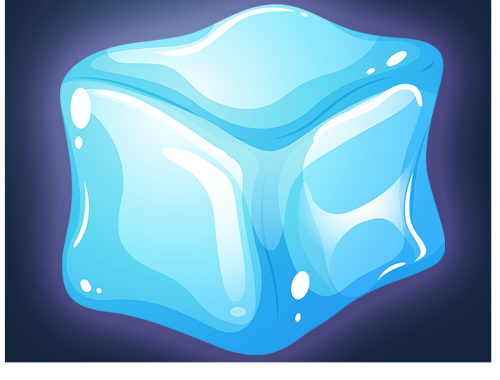
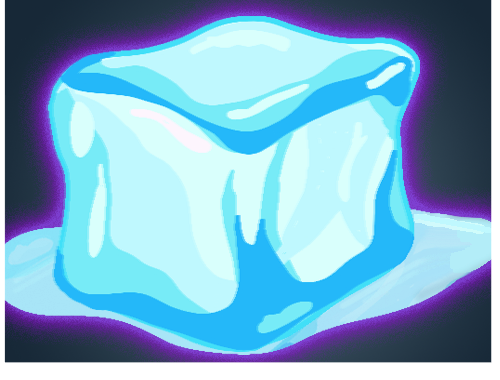
Ice Cube: tweak stats and artwork, remove canUse() method override

diff --git a/src/main/java/thesimpleton/cards/status/IceCube.java b/src/main/java/thesimpleton/cards/status/IceCube.java
@@ -8,6 +8,7 @@ import com.megacrit.cardcrawl.core.CardCrawlGame;
 import com.megacrit.cardcrawl.localization.CardStrings;
 import com.megacrit.cardcrawl.monsters.AbstractMonster;
 import thesimpleton.TheSimpletonMod;
+
 public class IceCube extends CustomCard {
     public static final String ID = "TheSimpletonMod:IceCube";
     private static final CardStrings cardStrings;
@@ -21,7 +22,7 @@ public class IceCube extends CustomCard {
     private static final CardTarget TARGET = CardTarget.NONE;
     private static final int COST = -2;
 
-    private static int NUM_TURNS_TO_ETHEREAL = 2;
+    private static int NUM_TURNS_TO_ETHEREAL = 3;
 
     public IceCube() {
         super(ID, NAME, TheSimpletonMod.getImageResourcePath(IMG_PATH), COST, DESCRIPTION, TYPE, CardColor.COLORLESS, RARITY,
@@ -39,7 +40,7 @@ public class IceCube extends CustomCard {
     public void atTurnStart() {
         this.flash(Color.SKY.cpy());
         if (this.baseMagicNumber > 0) {
-            this.magicNumber = this.baseMagicNumber =  this.baseMagicNumber - 1;
+            this.magicNumber = this.baseMagicNumber = this.baseMagicNumber - 1;
             if (this.baseMagicNumber == 0) {
                 CardCrawlGame.sound.play("ICE_CLINK_1");
                 this.superFlash(Color.SKY.cpy());
@@ -71,11 +72,6 @@ public class IceCube extends CustomCard {
     }
 
     public void upgrade() {
-    }
-
-    @Override
-    public boolean canUse(AbstractPlayer p, AbstractMonster m) {
-        return true;
     }
 
     static {
